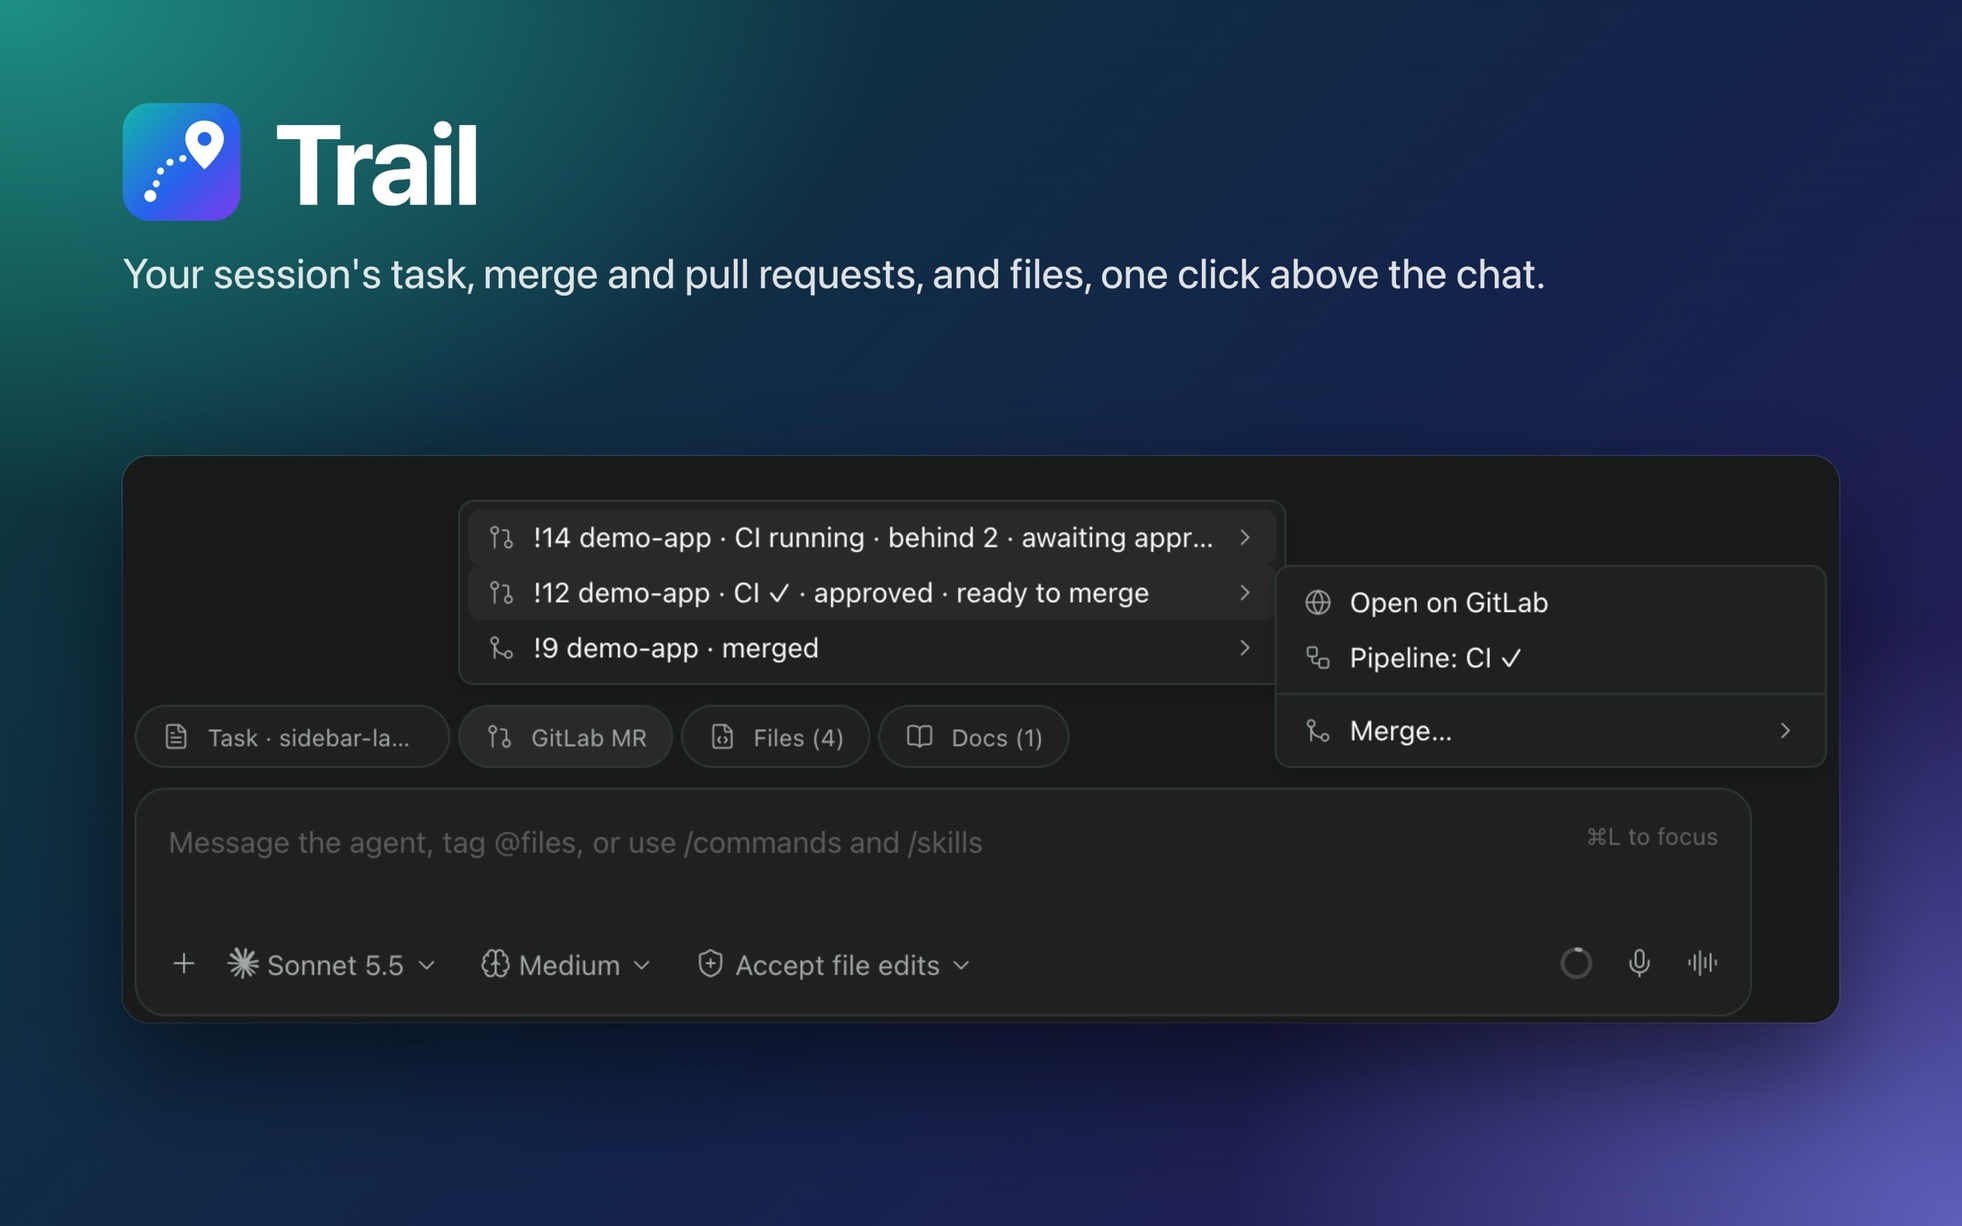
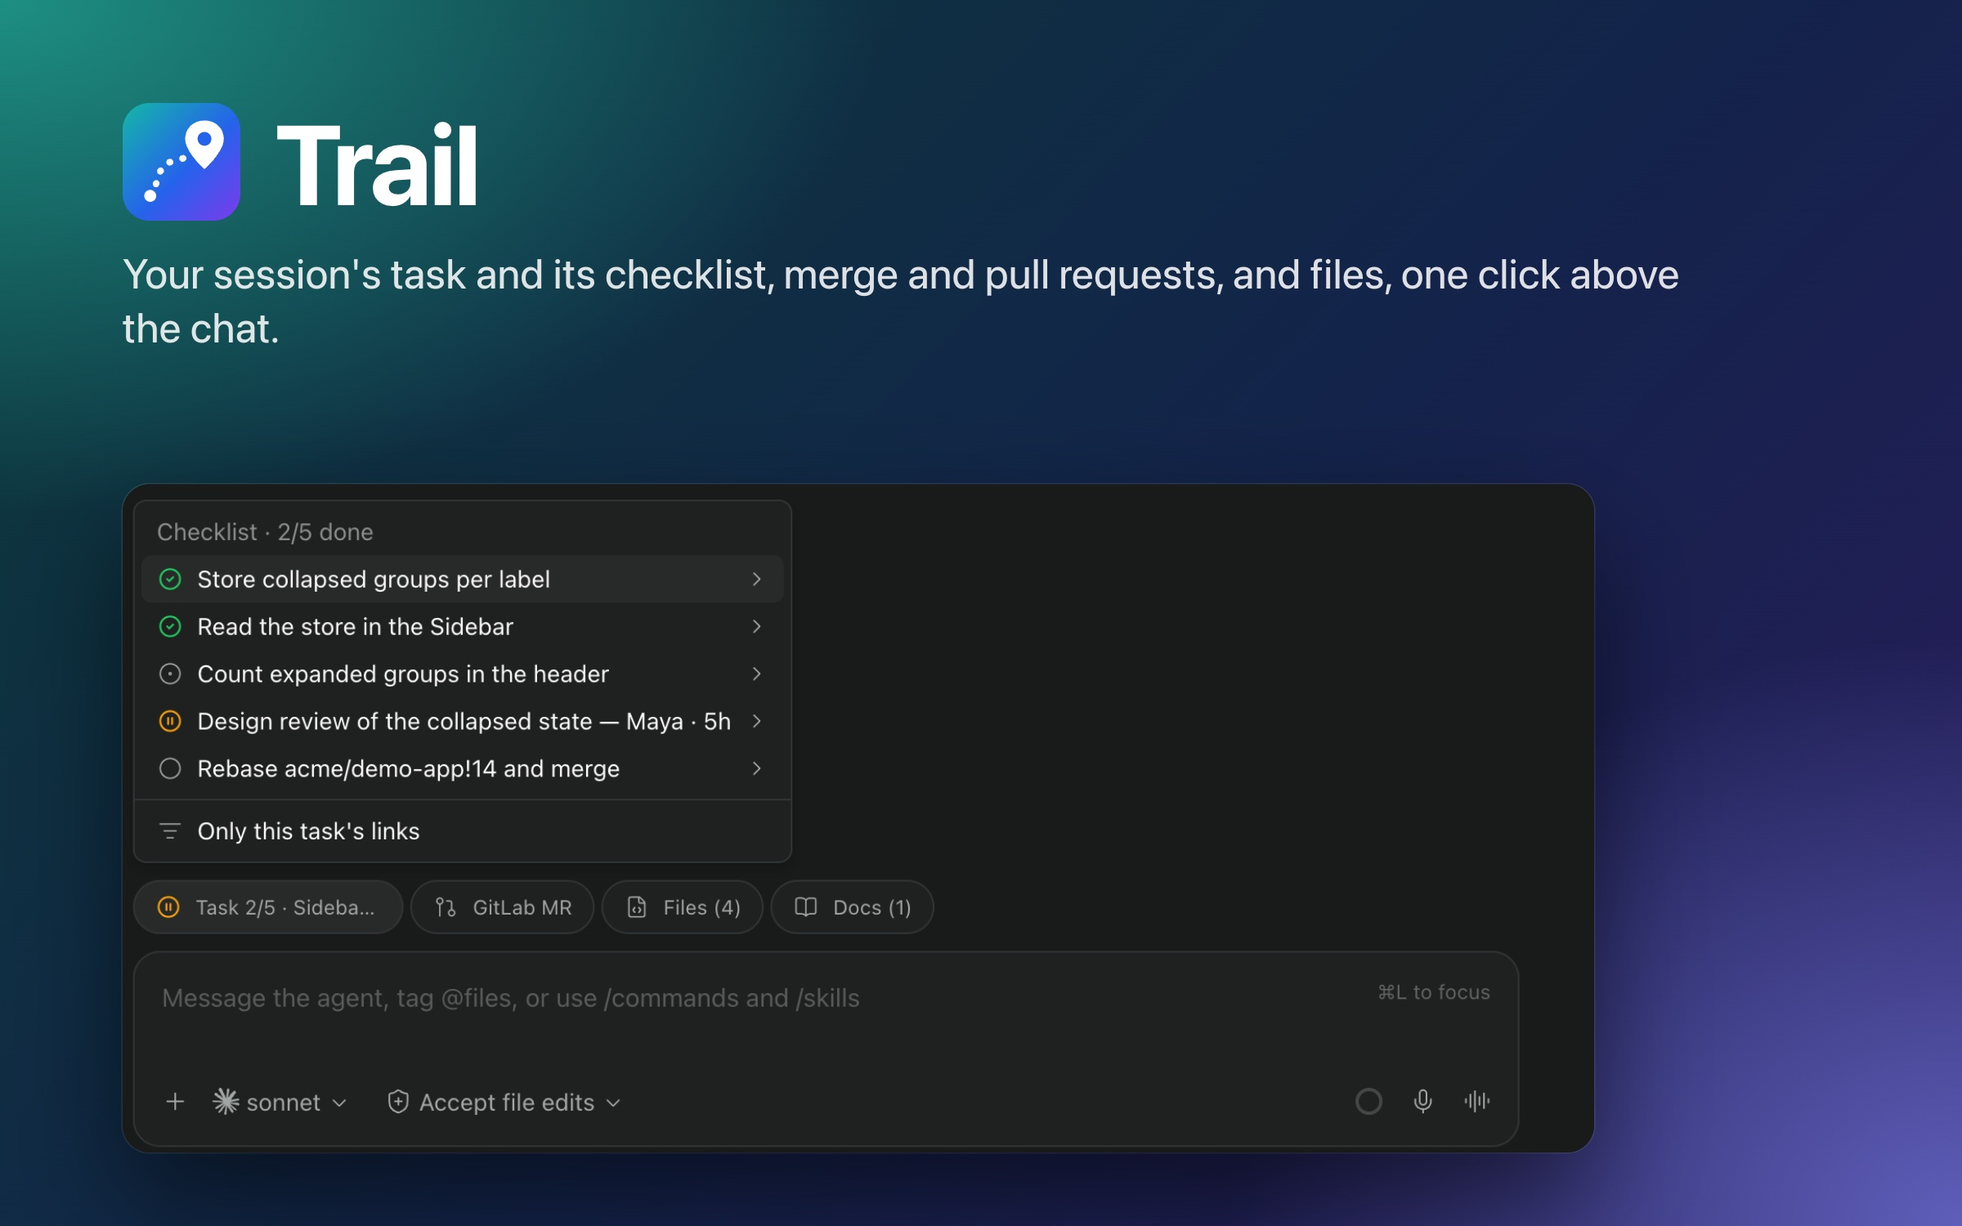
Release 0.2.1 (#6)
The plugin page describes 0.2.0: the overview, in English, Vietnamese and
Simplified Chinese, covers the checklist, the four MCP tools, the launcher
and the optional reminder hook, the manifest description names the
checklist, and the plugin's images show it. No code changes.

diff --git a/OVERVIEW.vi.md b/OVERVIEW.vi.md
@@ -1,8 +1,9 @@
-Trail thêm các nút ngay trên ô chat cho những gì một phiên agent đang làm: task của phiên, các merge request và pull request kèm trạng thái cập nhật liên tục, và khi cần, các file và trang mà phiên đã đụng tới. Mỗi nút mở ra một menu, nên link của một phiên dài vẫn chỉ cách một cú bấm.
+Trail thêm các nút ngay trên ô chat cho những gì một phiên agent đang làm: task của phiên và checklist những việc task cần, các merge request và pull request kèm trạng thái cập nhật liên tục, và khi cần, các file và trang mà phiên đã đụng tới. Mỗi nút mở ra một menu, nên link của một phiên dài vẫn chỉ cách một cú bấm.
 
 ## Có gì
 
 - **Task.** Tài liệu hoặc issue mà phiên đang làm. Mở nó ở một tab chỉ đọc cạnh chat hoặc trên Git forge. Khi có `bundle: "siblings"` và task doc tên `<tên>/README.md`, các file Markdown khác trong thư mục (tối đa 20, xuống một cấp thư mục con) được liệt kê cùng.
+- **Checklist.** Nằm trên menu của nút Task: những việc task chính của phiên cần làm, theo thứ tự, mỗi mục ở một trạng thái: chưa làm, đang làm, đang chờ, xong hoặc bỏ. Agent ghi lý do cho từng mục, ghi bằng chứng khi một mục xong và đang chờ ai khi một mục phải chờ, và bạn đọc các ghi chú đó trong một popover. Nút hiện tiến độ, ví dụ `Task 2/5`, và chuyển màu vàng khi có mục đang chờ người khác. Task giao chỉ qua chat cũng có list, việc phụ không được thêm vào nên list vẫn chỉ đường quay lại sau khi rẽ ngang, và list đã xong được cất đi khi phiên chuyển sang việc khác.
 - **Merge request và pull request.** Các MR GitLab và PR GitHub mà task doc ghi dạng URL (tối đa 20), mọi cái đã được ghim, cộng với năm cái khác phiên nhắc tới gần nhất, kèm trạng thái, CI, conflict, số commit behind và approve, cập nhật khoảng mỗi phút. Rebase, Update branch và Merge chỉ cần xác nhận một lần, và hộp xác nhận nêu request bằng project và số của nó.
 - **File, tài liệu và link khác.** Ở chế độ tất cả link, mỗi nhóm giữ 15 mục gần nhất: file agent đã đọc hoặc sửa, trang trên các công cụ như Figma, Notion hay Google Docs, và các link khác trong hội thoại.
 
@@ -10,7 +11,11 @@ Chuyển giữa link của task và tất cả link trong menu nút Task, hoặc
 
 ## Cách hoạt động
 
-Daemon đọc 300 tin nhắn mới nhất của phiên và ghi lại đường dẫn các file agent đã đọc hoặc sửa, cứ 30 giây một lần trong lúc agent chạy (tối đa ba giờ) và thêm một lần khi lượt kết thúc. Output của shell bị bỏ qua. Khi agent chưa ghim hay đặt tên task, Trail tự đoán: tài liệu bạn nhắc tới nặng ký nhất (chia đều cho các tài liệu cùng một tin nhắn, gấp đôi ở tin nhắn đầu tiên của phiên), rồi tới tài liệu agent sửa, còn tài liệu agent chỉ đọc hoặc nhắc tới thì nhẹ; bằng chứng cũ nhạt dần khi phiên chuyển việc. Khi có tài liệu khác sát điểm, nút hiện `Task?` và menu cho bạn chọn đúng task. Agent Claude Code mới tạo được gắn MCP server `trail` có tool `pin_link` đã duyệt sẵn, kèm một hướng dẫn ngắn yêu cầu viết merge request và pull request dưới dạng URL hoặc `project!N` / `owner/repo#N`. Hướng dẫn này cũng dặn agent ghim task ngay khi bạn nêu task, và dặn agent bắt đầu từ bản tóm tắt của một phiên fork tự ghim task và các request của phiên đó, vì Trail không đọc được bản tóm tắt. Hướng dẫn, mô tả của tool và kết quả mỗi lần gọi tool đều được gửi tới nhà cung cấp model của agent cùng phần còn lại của hội thoại.
+Daemon đọc 300 tin nhắn mới nhất của phiên và ghi lại đường dẫn các file agent đã đọc hoặc sửa, cứ 30 giây một lần trong lúc agent chạy (tối đa ba giờ) và thêm một lần khi lượt kết thúc. Output của shell bị bỏ qua. Khi agent chưa ghim hay đặt tên task, Trail tự đoán: tài liệu bạn nhắc tới nặng ký nhất (chia đều cho các tài liệu cùng một tin nhắn, gấp đôi ở tin nhắn đầu tiên của phiên), rồi tới tài liệu agent sửa, còn tài liệu agent chỉ đọc hoặc nhắc tới thì nhẹ; bằng chứng cũ nhạt dần khi phiên chuyển việc. Khi có tài liệu khác sát điểm, nút hiện `Task?` và menu cho bạn chọn đúng task. Agent Claude Code mới tạo được gắn MCP server `trail` có bốn tool đã duyệt sẵn: `pin_link` đặt task và thêm link, còn `set_main_task`, `add_checklist_item` và `update_checklist_item` giữ checklist. Một hướng dẫn ngắn dặn agent ghim task ngay khi bạn nêu task, lập list những việc task cần trước khi sửa file, báo tiến độ trong lúc làm, và viết merge request và pull request dưới dạng URL hoặc `project!N` / `owner/repo#N`. Agent bắt đầu từ bản tóm tắt của một phiên fork được dặn tự ghim task và các request của phiên đó và chép lại checklist, vì Trail không đọc được bản tóm tắt. Hướng dẫn, mô tả của các tool và kết quả mỗi lần gọi tool đều được gửi tới nhà cung cấp model của agent cùng phần còn lại của hội thoại.
+
+Agent khởi chạy server đó qua `$PASEO_HOME/trail/bin/trail-mcp.mjs`, một file khởi chạy tra bản cài hiện tại trong registry plugin của Paseo, nên phiên vẫn giữ tool khi một lần update chuyển plugin sang thư mục mới.
+
+Paseo không cho plugin hook nào chạy theo từng tin nhắn. Nếu dùng Claude Code, bạn có thể thêm `bin/trail-reminder.mjs` làm hook `UserPromptSubmit` trong settings Claude Code của mình: trước mỗi tin nhắn của bạn, nó cho agent một dòng về tình trạng checklist. README có sẵn cấu hình; dòng này được gửi tới nhà cung cấp model cùng tin nhắn của bạn.
 
 ## Thiết lập
 
@@ -25,9 +30,9 @@ Trạng thái và thao tác cần token: GitLab cần `read_api` để xem trạ
 - **Token.** Token chỉ được gửi tới đúng host mà nó được thiết lập cho, và không bao giờ đi theo chuyển hướng. Host GitLab chỉ được một link hoặc một file dự án nêu ra thì không nhận token nào và không bị gọi tới, cho tới khi bạn dán token cho nó hoặc thêm nó vào config cá nhân; Settings đánh dấu những host như vậy để bạn không dán token nhầm. Ngoại lệ duy nhất là `GITLAB_TOKEN`, được gửi tới host mà `GITLAB_HOST` chỉ định, hoặc gitlab.com khi biến này không được đặt. Token đã dán nằm trên máy chạy daemon, chỉ user chạy daemon đọc được.
 - **Thao tác.** Rebase, Update branch và Merge đều hỏi xác nhận, và Merge bị từ chối nếu nhánh hoặc cài đặt merge đã thay đổi sau lần đọc trạng thái.
 - **Request.** Request lấy trạng thái tới mọi forge dùng chung bốn slot, việc kiểm token có thêm hai slot riêng, mỗi request có giới hạn thời gian, và request lỗi không bị hỏi lại ở mỗi lần poll. Trail chỉ theo dõi một số lượng có hạn các host GitLab bạn chưa thiết lập; quá số đó thì host hiện là thừa và không bao giờ bị gọi tới. Các con số nằm trong hướng dẫn cấu hình.
-- **File.** Bản xem file chỉ đọc thư mục task và các file agent đã đụng tới, tối đa 512 KB. Trail giữ các file của mình (config cá nhân, link đã thu thập, lựa chọn theo từng phiên, token đã lưu) trong `$PASEO_HOME/trail`; hai mục cài đặt nằm trong phần cài đặt của chính Paseo, còn dòng ghi chú của mỗi lệnh nằm trong timeline của agent.
+- **File.** Bản xem file chỉ đọc thư mục task và các file agent đã đụng tới, tối đa 512 KB. Trail giữ các file của mình (config cá nhân, link đã thu thập, checklist và lựa chọn của từng phiên, token đã lưu, và file khởi chạy MCP trong `bin/`) trong `$PASEO_HOME/trail`; hai mục cài đặt nằm trong phần cài đặt của chính Paseo, còn dòng ghi chú của mỗi lệnh nằm trong timeline của agent.
 - **Đọc thêm.** Để tìm thư mục của chính nó, Trail đọc `$PASEO_HOME/config.json` của Paseo và `paseo-plugin.json` của các plugin được liệt kê ở đó, và chạy `git rev-parse` trong thư mục làm việc của agent để lấy tên nhánh.
 
 ## Giới hạn
 
-GitHub chỉ hỗ trợ github.com. Agent tạo trước khi cài Trail không có tool `pin_link`, và phiên fork bắt đầu với thanh nút trống cho tới khi agent của nó ghim task. `!N` hoặc `#N` đứng một mình không thành link.
+GitHub chỉ hỗ trợ github.com. Agent tạo trước khi cài Trail không có tool nào của Trail, và agent tạo trước một lần update thiếu các tool bản đó thêm vào; chúng vẫn chạy được các tool đó từ shell bằng `node <thư mục plugin hiện tại>/bin/trail-task.mjs <tool> '<json>'`. Phiên tạo trên 0.1.0 mất tool của Trail sau khi update từ Git hoặc registry; hãy mở phiên mới. Phiên fork bắt đầu với thanh nút trống cho tới khi agent của nó ghim task. `!N` hoặc `#N` đứng một mình không thành link. Agent viết checklist; muốn đổi thì bạn bảo agent.

diff --git a/OVERVIEW.md b/OVERVIEW.md
@@ -1,8 +1,9 @@
-Trail adds buttons above the chat box for what an agent session is working on: its task, its merge and pull requests with live status, and, when you want them, the files and pages the session touched. Each button opens a menu, so a long session's links stay one click away.
+Trail adds buttons above the chat box for what an agent session is working on: its task and a checklist of what the task needs, its merge and pull requests with live status, and, when you want them, the files and pages the session touched. Each button opens a menu, so a long session's links stay one click away.
 
 ## What you get
 
 - **Task.** The doc or issue the session works on. Open it in a read-only tab beside the chat or on your Git forge. With `bundle: "siblings"` and a task doc named `<name>/README.md`, the other Markdown files in its folder (up to 20, one level of subfolders) are listed with it.
+- **Checklist.** Above the Task button's menu: what the session's main task needs, in order, each item to do, in progress, waiting, done or dropped. The agent gives every item a reason, says what proves a done item and whom a waiting one waits on, and you read those in a popover. The button shows progress, as in `Task 2/5`, and turns amber when an item waits on someone. A task given only in chat gets a list too, side work stays off it so it shows the way back after a detour, and a finished list is put away when the session moves on to other work.
 - **Merge and pull requests.** The GitLab MRs and GitHub PRs its task doc links by URL (up to 20), every one pinned, and the five others the session mentioned most recently, with state, CI, conflicts, commits behind and approval, refreshed about once a minute. Rebase, Update branch and Merge are one confirmation away, and the confirmation names the request by its project and number.
 - **Files, docs and other links.** In all-links mode, the most recent 15 of each: files the agent read or edited, pages on tools such as Figma, Notion or Google Docs, and other links from the conversation.
 
@@ -10,7 +11,11 @@ Switch between the task's links and all links from the task menu, or with `/trai
 
 ## How it works
 
-The daemon reads the session's newest 300 messages and notes the paths of files the agent read or edited, every 30 seconds during a turn (for up to three hours) and again when it ends. Shell output is ignored. Unless the agent pinned or named the task, Trail guesses it: a doc you name counts most (shared among the docs one message names, double in the session's first message), then a doc the agent edits, and only a little one it reads or mentions; evidence fades as the session moves on. When another doc comes close, the button reads `Task?` and its menu lets you pick. New Claude Code agents get a `trail` MCP server with a preapproved `pin_link` tool and a short instruction to write merge and pull requests as URLs or `project!N` / `owner/repo#N`. The instruction also asks the agent to pin the task as soon as you name one, and an agent that starts from a forked session's summary to pin that session's task and requests, since the summary is not visible to Trail. The instruction, the tool's description and the results of its calls are sent to the agent's model provider with the rest of the conversation.
+The daemon reads the session's newest 300 messages and notes the paths of files the agent read or edited, every 30 seconds during a turn (for up to three hours) and again when it ends. Shell output is ignored. Unless the agent pinned or named the task, Trail guesses it: a doc you name counts most (shared among the docs one message names, double in the session's first message), then a doc the agent edits, and only a little one it reads or mentions; evidence fades as the session moves on. When another doc comes close, the button reads `Task?` and its menu lets you pick. New Claude Code agents get a `trail` MCP server with four preapproved tools: `pin_link` names the task and adds links, and `set_main_task`, `add_checklist_item` and `update_checklist_item` keep the checklist. A short instruction asks the agent to pin the task as soon as you name one, to list what it needs before changing files, to report progress as it goes, and to write merge and pull requests as URLs or `project!N` / `owner/repo#N`. An agent that starts from a forked session's summary is asked to pin that session's task and requests and re-add its checklist, since the summary is not visible to Trail. The instruction, the tools' descriptions and the results of their calls are sent to the agent's model provider with the rest of the conversation.
+
+Agents start that server through `$PASEO_HOME/trail/bin/trail-mcp.mjs`, a launcher that looks up the current install in Paseo's plugin registry, so a session keeps its tools when an update moves the plugin to a new folder.
+
+Paseo gives plugins no hook that runs with each message. If you use Claude Code, you can add `bin/trail-reminder.mjs` as a `UserPromptSubmit` hook in your own Claude Code settings: before each of your messages it gives the agent one line on where its checklist stands. The README shows the setting; the line is sent to the model provider with your message.
 
 ## Setup
 
@@ -25,9 +30,9 @@ Status and actions need a token: GitLab `read_api` for status and `api` for Reba
 - **Tokens.** A token is only sent to the host it was set up for, and never along a redirect. A GitLab host named only by a link or a project file gets no token, and is not contacted, until you paste one for it or list it in your personal config; Settings marks such a host so a token is not pasted for it by mistake. The one exception is `GITLAB_TOKEN`, which goes to the host `GITLAB_HOST` names, or gitlab.com when it is unset. Pasted tokens stay on the daemon machine, readable only by its user.
 - **Actions.** Rebase, Update branch and Merge ask for confirmation, and Merge is refused if the branch or the merge settings changed since the status was read.
 - **Requests.** Status requests to all forges share four slots, token checks have two more of their own, each request has a time limit, and a request that fails is not repeated on every poll. Trail keeps track of a limited number of GitLab hosts you have not set up; past that, a host is shown as one too many and never contacted. The configuration guide has the numbers.
-- **Files.** The file view reads only the task folder and files the agent touched, up to 512 KB. Trail keeps its own files (personal config, collected links, per-session choices, saved tokens) in `$PASEO_HOME/trail`; its two settings live in Paseo's own settings, and each command's note stays in the agent's timeline.
+- **Files.** The file view reads only the task folder and files the agent touched, up to 512 KB. Trail keeps its own files (personal config, collected links, each session's checklist and choices, saved tokens, and the MCP launcher in `bin/`) in `$PASEO_HOME/trail`; its two settings live in Paseo's own settings, and each command's note stays in the agent's timeline.
 - **Other reads.** To find its own folder Trail reads Paseo's `$PASEO_HOME/config.json` and the `paseo-plugin.json` of the plugins listed there, and it runs `git rev-parse` in the agent's working directory to read the branch name.
 
 ## Limits
 
-GitHub support covers github.com only. Agents created before Trail was installed have no `pin_link` tool, and a forked session starts with an empty bar until its agent pins the task. A bare `!N` or `#N` is not linked.
+GitHub support covers github.com only. Agents created before Trail was installed have no Trail tools, and agents created before an update lack the tools it added; they can run the same tools from their shell with `node <current plugin folder>/bin/trail-task.mjs <tool> '<json>'`. Sessions created on 0.1.0 lose Trail's tools after a Git or registry update; open a new session. A forked session starts with an empty bar until its agent pins the task. A bare `!N` or `#N` is not linked. Agents write the checklist; you change it by telling the agent.

diff --git a/CHANGELOG.md b/CHANGELOG.md
@@ -1,5 +1,12 @@
 # Changelog
 
+## 0.2.1 — 2026-11-09
+
+- **Plugin page describes 0.2.0.** `OVERVIEW.md` and its Vietnamese and Simplified Chinese
+  translations now cover the checklist, the four MCP tools, the launcher agents start them through,
+  the optional reminder hook and the limits after an update. The manifest description names the
+  checklist, and the plugin's images show it. No code changes.
+
 ## 0.2.0 — 2026-11-06
 
 **Upgrade notes.** If you installed Trail from Git or the registry, sessions created on 0.1.0 still
